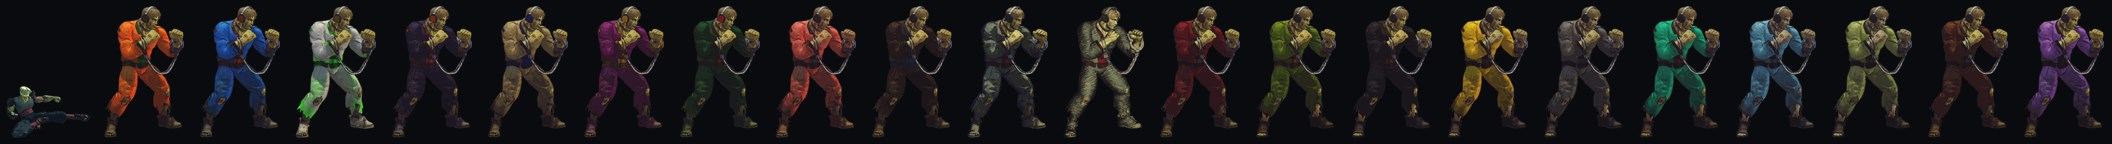
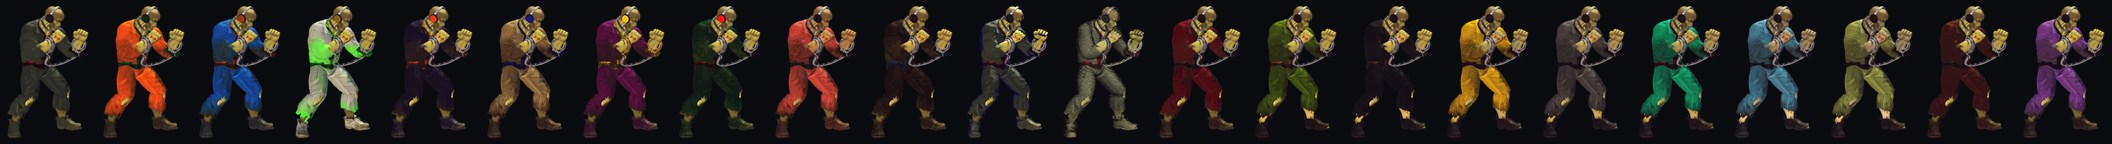
EX More Stuff 1.3.1: Guy and Cody Alternate 5 pictures
- Costumes page: Guy's Alternate 5 showed Cody and Cody's showed Guy.
  Both sheets are rebuilt from Ember's current costume art.

Changed region(s): [[0.0, 0.0556, 1.0, 0.9444]]

diff --git a/src/AssemblyInfo.cs b/src/AssemblyInfo.cs
@@ -6,6 +6,6 @@ using System.Runtime.InteropServices;
 [assembly: AssemblyProduct("EX More Stuff")]
 [assembly: AssemblyCompany("EX More Stuff")]
 [assembly: AssemblyCopyright("MIT License")]
-[assembly: AssemblyVersion("1.3.0.0")]
-[assembly: AssemblyFileVersion("1.3.0.0")]
+[assembly: AssemblyVersion("1.3.1.0")]
+[assembly: AssemblyFileVersion("1.3.1.0")]
 [assembly: ComVisible(false)]
